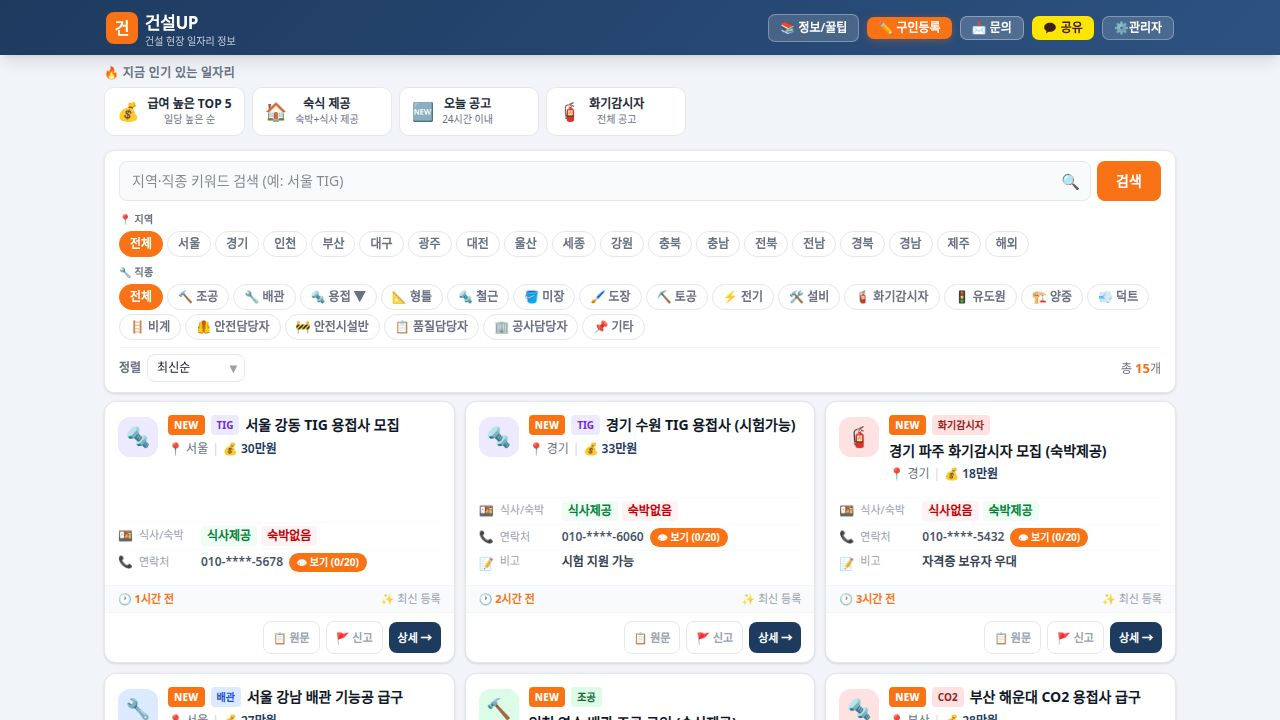
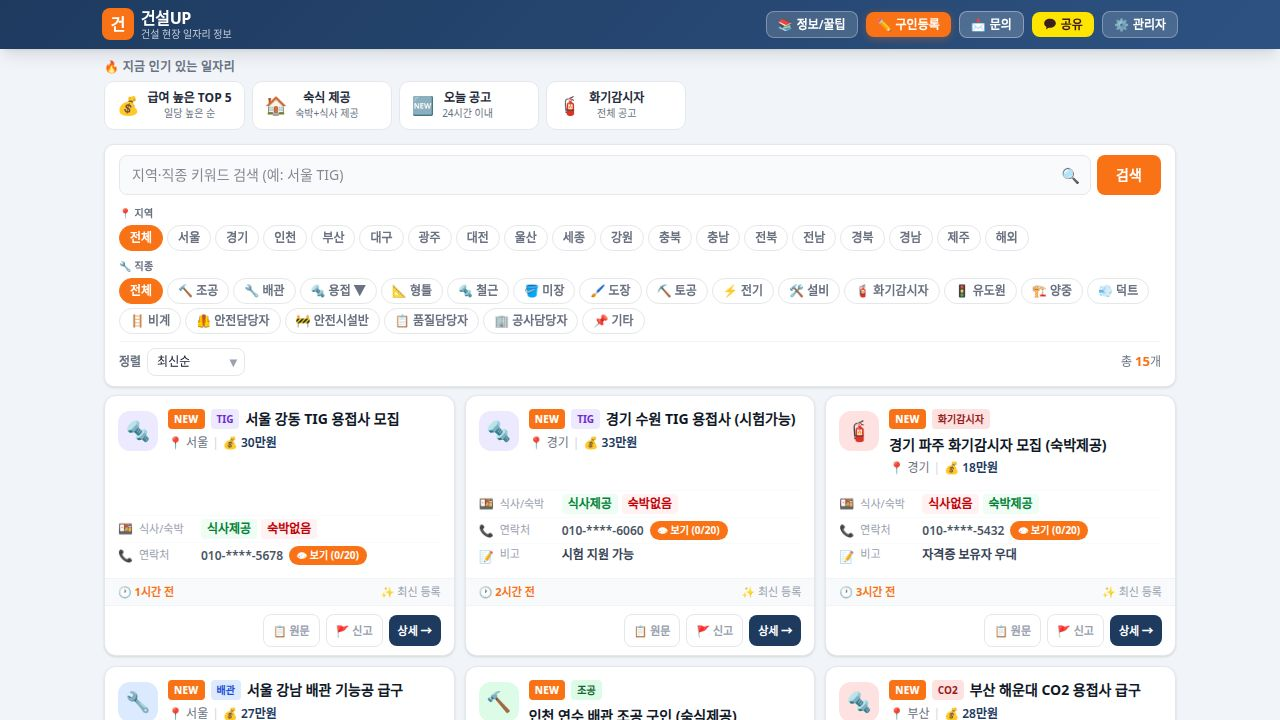
Restructure header and card layouts for improved mobile display
Adjusted the header component to use a two-line layout on mobile, displaying the logo and site name on the first line and a grid of five action buttons on the second. The "정보/꿀팁" button is now visible on mobile, and buttons are styled into a more compact, square shape. Modified card layouts to stack elements vertically on mobile for better readability and fixed modal positioning issues by using a portal.

Replit-Commit-Author: Agent
Replit-Commit-Session-Id: efb4cc15-c5f3-469d-993a-bb5a34376f1a
Replit-Commit-Checkpoint-Type: full_checkpoint
Replit-Commit-Event-Id: d64613a3-1aab-41e6-a61c-120187586a69
Replit-Commit-Screenshot-Url: https://storage.googleapis.com/screenshot-production-us-central1/2f7504fc-6b2f-4948-a0b7-356142900508/efb4cc15-c5f3-469d-993a-bb5a34376f1a/2HO0OPm
Replit-Helium-Checkpoint-Created: true

diff --git a/artifacts/geonseolup/src/components/Header.tsx b/artifacts/geonseolup/src/components/Header.tsx
@@ -109,47 +109,52 @@ export default function Header() {
         className="sticky top-0 z-[200] text-white shadow-lg"
         style={{ background: 'linear-gradient(135deg, #1e3a5f 0%, #2d5282 100%)' }}
       >
-        <div className="max-w-[1100px] mx-auto px-4 py-[9px] flex items-center justify-between gap-3">
-          <Link href="/" className="flex items-center gap-[7px] no-underline text-white">
+        <div className="max-w-[1100px] mx-auto px-3 py-2 flex flex-col sm:flex-row sm:items-center sm:justify-between gap-2">
+          {/* 상단: 로고 (모바일 첫 줄) */}
+          <Link href="/" className="flex items-center gap-[7px] no-underline text-white shrink-0">
             <div
               className="w-8 h-8 rounded-lg flex items-center justify-center text-base font-black shrink-0"
               style={{ background: '#f97316' }}
             >
               건
             </div>
-            <div>
-              <span className="text-[17px] font-bold tracking-tight block">{siteName}</span>
-              <span className="text-[10px] opacity-70 block leading-none">{siteSubtitle}</span>
+            <div className="leading-tight">
+              <span className="text-[16px] font-bold tracking-tight block">{siteName}</span>
+              <span className="text-[10px] opacity-70 block">{siteSubtitle}</span>
             </div>
           </Link>
 
-          <div className="flex items-center gap-2 shrink-0">
+          {/* 하단: 버튼 그리드 (모바일 둘째 줄) — 5칸 균등, 네모 모양 */}
+          <div className="grid grid-cols-5 gap-1.5 sm:flex sm:items-center sm:gap-2 sm:shrink-0">
             <Link
               href="/info"
-              className="px-[11px] py-[5px] rounded-[7px] text-xs font-semibold text-white no-underline border border-white/30 bg-white/15 transition-colors hover:bg-white/28 hidden sm:block whitespace-nowrap"
+              className="flex flex-col sm:flex-row items-center justify-center gap-0.5 sm:gap-1 px-1 sm:px-[11px] py-1.5 sm:py-[5px] rounded-[8px] text-[10px] sm:text-xs font-semibold text-white no-underline border border-white/30 bg-white/15 transition-colors hover:bg-white/28 whitespace-nowrap leading-tight"
             >
-              📚 정보/꿀팁
+              <span>📚</span>
+              <span className="whitespace-nowrap">정보/꿀팁</span>
             </Link>
             <Link
               href="/post"
-              className="inline-flex items-center justify-center gap-1 px-[11px] py-[5px] rounded-[7px] text-xs font-extrabold text-white no-underline transition-all hover:-translate-y-px whitespace-nowrap shrink-0 leading-none"
+              className="flex flex-col sm:flex-row items-center justify-center gap-0.5 sm:gap-1 px-1 sm:px-[11px] py-1.5 sm:py-[5px] rounded-[8px] text-[10px] sm:text-xs font-extrabold text-white no-underline transition-all hover:-translate-y-px whitespace-nowrap leading-tight"
               style={{
                 background: '#f97316',
                 boxShadow: '0 2px 8px rgba(249,115,22,0.30)',
               }}
             >
-              <span className="whitespace-nowrap">✏ 구인등록</span>
+              <span>✏</span>
+              <span className="whitespace-nowrap">구인등록</span>
             </Link>
 
             <button
-              className="inline-flex items-center justify-center gap-1 px-[11px] py-[5px] rounded-[7px] text-xs font-bold text-white border border-white/35 bg-white/18 cursor-pointer transition-all hover:bg-white/30 hover:-translate-y-px whitespace-nowrap shrink-0 leading-none"
+              className="flex flex-col sm:flex-row items-center justify-center gap-0.5 sm:gap-1 px-1 sm:px-[11px] py-1.5 sm:py-[5px] rounded-[8px] text-[10px] sm:text-xs font-bold text-white border border-white/35 bg-white/18 cursor-pointer transition-all hover:bg-white/30 hover:-translate-y-px whitespace-nowrap leading-tight"
               onClick={() => setContactOpen(true)}
             >
-              <span className="whitespace-nowrap">📩 문의</span>
+              <span>📩</span>
+              <span className="whitespace-nowrap">문의</span>
             </button>
 
             <button
-              className="inline-flex items-center justify-center gap-1 px-[11px] py-[5px] rounded-[7px] text-xs font-bold border-none cursor-pointer transition-all hover:opacity-90 hover:-translate-y-px whitespace-nowrap shrink-0 leading-none"
+              className="flex flex-col sm:flex-row items-center justify-center gap-0.5 sm:gap-1 px-1 sm:px-[11px] py-1.5 sm:py-[5px] rounded-[8px] text-[10px] sm:text-xs font-bold border-none cursor-pointer transition-all hover:opacity-90 hover:-translate-y-px whitespace-nowrap leading-tight"
               style={{ background: '#fee500', color: '#3c1e1e' }}
               onClick={doKakaoShare}
             >
@@ -161,9 +166,10 @@ export default function Header() {
 
             <Link
               href="/admin"
-              className="inline-flex items-center justify-center px-[11px] py-[5px] rounded-[7px] text-xs font-semibold text-white no-underline border border-white/30 bg-white/15 transition-colors hover:bg-white/28 whitespace-nowrap shrink-0 leading-none"
+              className="flex flex-col sm:flex-row items-center justify-center gap-0.5 sm:gap-1 px-1 sm:px-[11px] py-1.5 sm:py-[5px] rounded-[8px] text-[10px] sm:text-xs font-semibold text-white no-underline border border-white/30 bg-white/15 transition-colors hover:bg-white/28 whitespace-nowrap leading-tight"
             >
-              ⚙<span className="hidden sm:inline whitespace-nowrap"> 관리자</span>
+              <span>⚙</span>
+              <span className="whitespace-nowrap">관리자</span>
             </Link>
           </div>
         </div>
